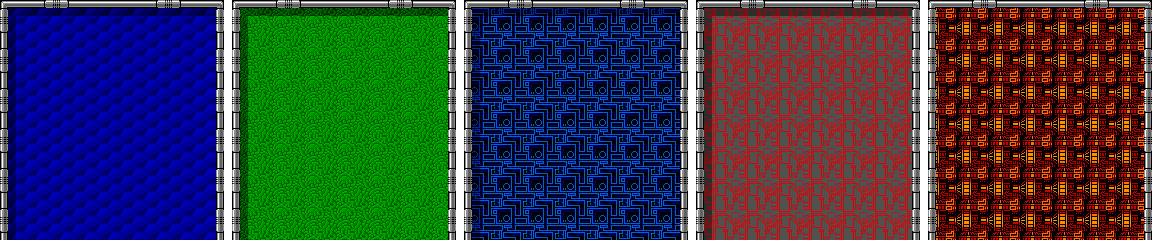
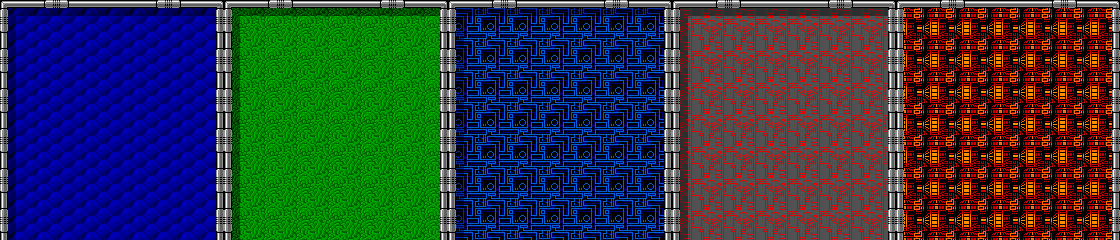
이창준 : 반사공식 업데이트

diff --git a/ContentsProject/Brick.cpp b/ContentsProject/Brick.cpp
@@ -62,7 +62,12 @@ void ABrick::Tick(float _DeltaTime)
 			UEngineDebug::OutPutString("Left");
 			if (APlayer::Ball->Dir.X > 0)
 			{
-				APlayer::Ball->Dir.X *= -1;
+				FVector2D Dir;
+				Dir = APlayer::Ball->Dir.Reflect(FVector2D::LEFT);
+
+				APlayer::Ball->Dir = Dir;
+
+				//APlayer::Ball->Dir.X *= -1;
 			}
 		}
 		else
@@ -70,7 +75,12 @@ void ABrick::Tick(float _DeltaTime)
 			UEngineDebug::OutPutString("Top");
 			if (APlayer::Ball->Dir.Y > 0)
 			{
-				APlayer::Ball->Dir.Y *= -1;
+				FVector2D Dir;
+				Dir = APlayer::Ball->Dir.Reflect(FVector2D::UP);
+
+				APlayer::Ball->Dir = Dir;
+
+				//APlayer::Ball->Dir.Y *= -1;
 			}
 			
 		}
@@ -86,7 +96,12 @@ void ABrick::Tick(float _DeltaTime)
 			UEngineDebug::OutPutString("Left");
 			if (APlayer::Ball->Dir.X > 0)
 			{
-				APlayer::Ball->Dir.X *= -1;
+				FVector2D Dir;
+				Dir = APlayer::Ball->Dir.Reflect(FVector2D::LEFT);
+
+				APlayer::Ball->Dir = Dir;
+
+				//APlayer::Ball->Dir.X *= -1;
 			}
 		}
 		else
@@ -94,12 +109,12 @@ void ABrick::Tick(float _DeltaTime)
 			UEngineDebug::OutPutString("Bottom");
 			if (APlayer::Ball->Dir.Y < 0)
 			{
-				//FVector2D Dir;
-				//Dir = APlayer::Ball->Dir.Reflect(FVector2D::DOWN);
-				//
-				//APlayer::Ball->Dir = Dir;
+				FVector2D Dir;
+				Dir = APlayer::Ball->Dir.Reflect(FVector2D::DOWN);
+				
+				APlayer::Ball->Dir = Dir;
 
-				APlayer::Ball->Dir.Y *= -1;
+				//APlayer::Ball->Dir.Y *= -1;
 			}
 		}
 	}
@@ -116,7 +131,12 @@ void ABrick::Tick(float _DeltaTime)
 			UEngineDebug::OutPutString("Right");
 			if (APlayer::Ball->Dir.X < 0)
 			{
-				APlayer::Ball->Dir.X *= -1;
+				FVector2D Dir;
+				Dir = APlayer::Ball->Dir.Reflect(FVector2D::RIGHT);
+
+				APlayer::Ball->Dir = Dir;
+
+				//APlayer::Ball->Dir.X *= -1;
 			}
 		}
 		else
@@ -124,7 +144,12 @@ void ABrick::Tick(float _DeltaTime)
 			UEngineDebug::OutPutString("Top");
 			if (APlayer::Ball->Dir.Y > 0)
 			{
-				APlayer::Ball->Dir.Y *= -1;
+				FVector2D Dir;
+				Dir = APlayer::Ball->Dir.Reflect(FVector2D::UP);
+
+				APlayer::Ball->Dir = Dir;
+
+				//APlayer::Ball->Dir.Y *= -1;
 			}
 		}
 	}
@@ -139,7 +164,12 @@ void ABrick::Tick(float _DeltaTime)
 			UEngineDebug::OutPutString("Right");
 			if (APlayer::Ball->Dir.X < 0)
 			{
-				APlayer::Ball->Dir.X *= -1;
+				FVector2D Dir;
+				Dir = APlayer::Ball->Dir.Reflect(FVector2D::RIGHT);
+
+				APlayer::Ball->Dir = Dir;
+
+				//APlayer::Ball->Dir.X *= -1;
 			}
 		}
 		else
@@ -147,12 +177,12 @@ void ABrick::Tick(float _DeltaTime)
 			UEngineDebug::OutPutString("Bottom");
 			if (APlayer::Ball->Dir.Y < 0)
 			{
-				//FVector2D Dir;
-				//Dir = APlayer::Ball->Dir.Reflect(FVector2D::DOWN);
-				//
-				//APlayer::Ball->Dir = Dir;
+				FVector2D Dir;
+				Dir = APlayer::Ball->Dir.Reflect(FVector2D::DOWN);
+				
+				APlayer::Ball->Dir = Dir;
 
-				APlayer::Ball->Dir.Y *= -1;
+				//APlayer::Ball->Dir.Y *= -1;
 			}
 		}
 	}

diff --git a/EngineBase/EngineMath.h b/EngineBase/EngineMath.h
@@ -41,6 +41,11 @@ public:
 
 	}
 
+	FVector2D(double _X, double _Y) : X(static_cast<float>(_X)), Y(static_cast<float>(_Y))
+	{
+
+	}
+
 	int iX() const
 	{
 		return static_cast<int>(X);
@@ -86,19 +91,19 @@ public:
 		return;
 	}
 
-	//float Dot(FVector2D _DirVector)
-	//{
-	//	float Result = X * _DirVector.X + Y * _DirVector.Y;
-	//	return Result;
-	//}
-	//
-	//FVector2D Reflect(FVector2D _N)
-	//{
-	//	FVector2D Result;
-	//	Result = *this + (_N * 2.f * (-this->Dot(_N)));
-	//
-	//	return Result;
-	//}
+	float Dot(FVector2D _DirVector)
+	{
+		float Result = X * _DirVector.X + Y * _DirVector.Y;
+		return Result;
+	}
+	
+	FVector2D Reflect(FVector2D _N)
+	{
+		FVector2D Result;
+		Result = *this + (_N * 2.f * (-this->Dot(_N)));
+	
+		return Result;
+	}
 
 	FVector2D operator*(float _Value) const
 	{

diff --git a/ContentsProject/Player.cpp b/ContentsProject/Player.cpp
@@ -112,7 +112,7 @@ void APlayer::Tick(float _DeltaTime)
 	{
 		if (Dir.X < 0)
 		{
-			Dir.X *= -1;
+			Dir = Dir.Reflect(FVector2D::RIGHT);
 		}
 	}
 
@@ -120,7 +120,7 @@ void APlayer::Tick(float _DeltaTime)
 	{
 		if (Dir.X > 0)
 		{
-			Dir.X *= -1;
+			Dir = Dir.Reflect(FVector2D::LEFT);
 		}
 	}
 	
@@ -128,7 +128,7 @@ void APlayer::Tick(float _DeltaTime)
 	{
 		if (Dir.Y < 0)
 		{
-			Dir.Y *= -1;
+			Dir = Dir.Reflect(FVector2D::DOWN);
 		}
 
 	}
@@ -137,7 +137,7 @@ void APlayer::Tick(float _DeltaTime)
 	{
 		if (Dir.Y > 0)
 		{
-			Dir.Y *= -1;
+			Dir = Dir.Reflect(FVector2D::UP);
 		}
 	}
 	

diff --git a/ContentsProject/PlayMap.cpp b/ContentsProject/PlayMap.cpp
@@ -11,7 +11,7 @@ APlayMap::APlayMap()
 	SetActorLocation(WindowSize.Half());
 	SetActorScale(WindowSize);
 	
-	SetSprite("Fields1.png");
+	SetSprite("Fields2.png");
 }
 
 APlayMap::~APlayMap()
